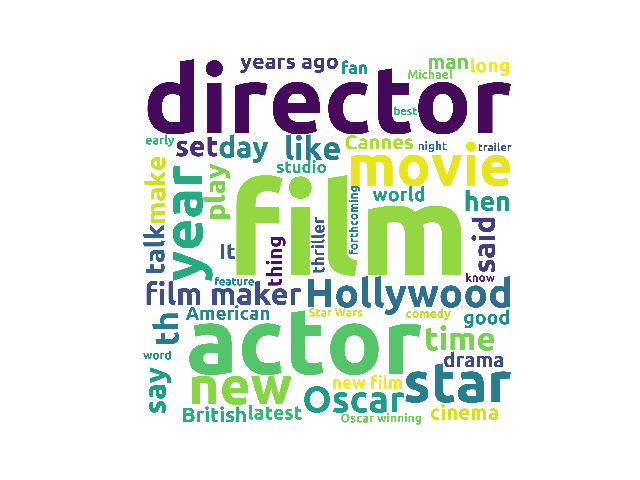
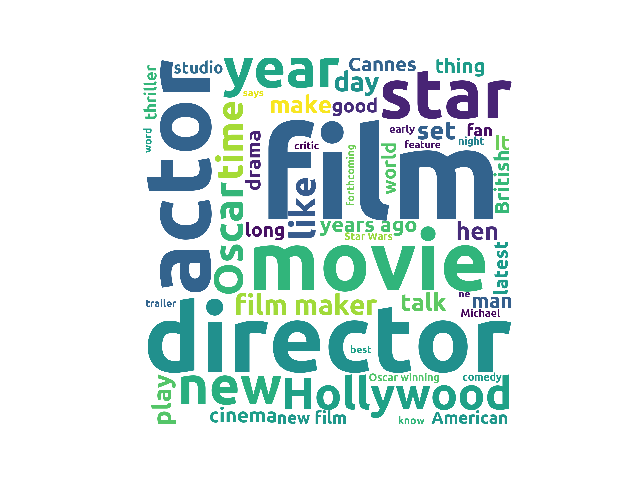
clouds - class

Changed region(s): [[0.2188, 0.0938, 0.8125, 0.9062]]

diff --git a/2-classification/class.py b/2-classification/class.py
@@ -105,7 +105,7 @@ def main():
     content = list(train_data.Content)
     test_titles = list(test_data.Title)
     test_content = list(test_data.Content)
-    data_lsi = make_lsi(content, titles, 50)
+    data_lsi = make_lsi(content, titles, 200)
     test_data_lsi = make_lsi(test_content, test_titles, 50)
 
     #assign to each category an int and parse all dataset categories as ints
@@ -120,10 +120,10 @@ def main():
     algorithms = [
     MultinomialNB(),
     RandomForestClassifier(n_estimators=6),
-    #svm.SVC(kernel='rbf', C=10, gamma=1, probability=True)] #put parameters here
-    svm.SVC()]
+    svm.SVC(kernel='rbf', C=10, gamma=1, probability=True)] #put parameters here
+    #svm.SVC()]
 
-    find_parameters(svm.SVC(), data_lsi, data_cat)
+    #find_parameters(svm.SVC(), data_lsi, data_cat)
     
     validation = KFold(n_splits=10)
     stat_array = [[] for i in range(4)]

diff --git a/1-wordcloud/cloud.py b/1-wordcloud/cloud.py
@@ -22,8 +22,12 @@ def main(argv):
     data = pd.read_csv('../datasets/train_set.csv', sep="\t")
     all_categories = set(data['Category'])
     categories = ["Politics", "Film", "Football", "Business", "Technology"]
-
+    
+    # Get stopwords from sklearn, adding some that we found
+    manual_stop_words = ['say', 'said', 'th', 'it', 'ha'] 
     stop_words = ENGLISH_STOP_WORDS
+    stop_words = stop_words.union(manual_stop_words)
+
     font = '/usr/share/fonts/truetype/ubuntu-font-family/Ubuntu-B.ttf'
 
     for cat in categories:
